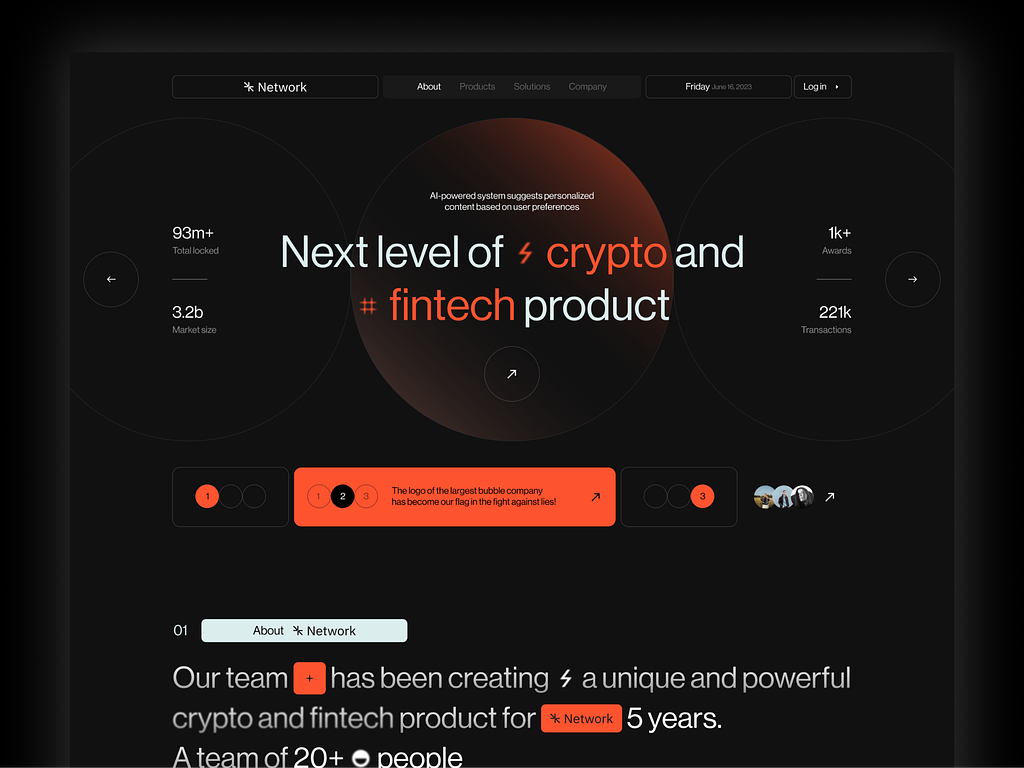
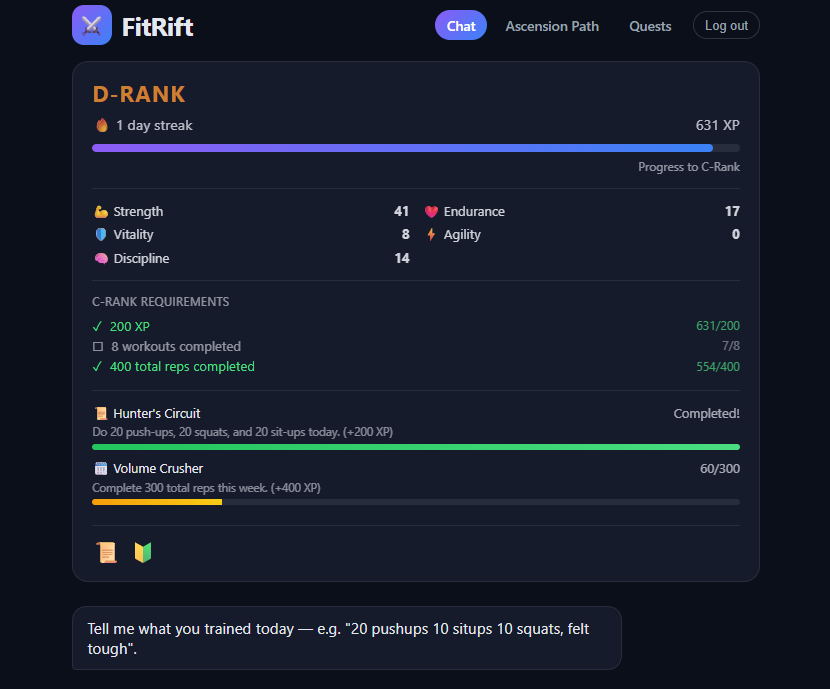
Add FitRift project card with live demo link

diff --git a/index.html b/index.html
@@ -149,10 +149,17 @@
       <div class="project-card">
         <img src="project4.png" alt="">
 
-        <h3>Project 4</h3>
+        <h3>FitRift</h3>
 
-        <p>Under Developement</p>
-        <div class="btn">View Project</div>
+        <p>A Solo Leveling-inspired bodyweight fitness RPG chatbot — describe your workout in plain English and it
+          parses it, awards XP and RPG stats relative to your own baseline, tracks personal records and progression
+          unlocks, and gates a Hunter rank (E through S) behind XP, workout count, and rep count together. Built with
+          a Node/Express + Prisma/PostgreSQL backend, a Groq-hosted LLM for parsing, and a React frontend with real
+          Supabase auth.</p>
+        <div class="btn-group">
+          <a href="https://fit-rift.vercel.app" target="_blank" class="btn">Live Demo</a>
+          <a href="https://github.com/AhmedWalidBarakat/FitRift" target="_blank" class="btn">GitHub</a>
+        </div>
       </div>
 
       <div class="project-card">
